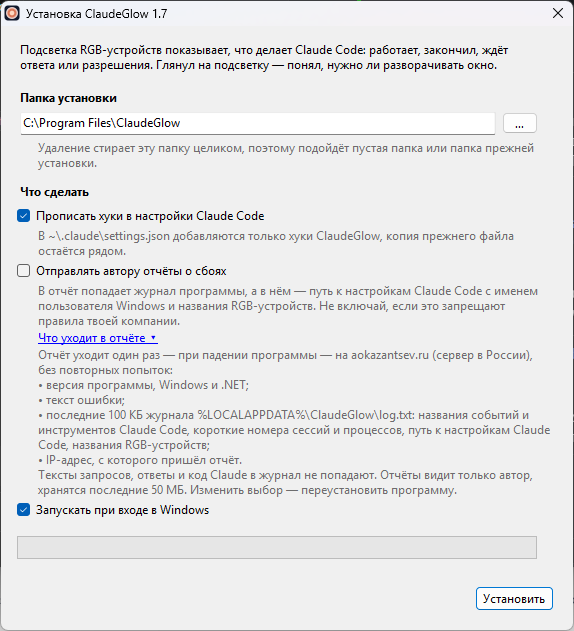
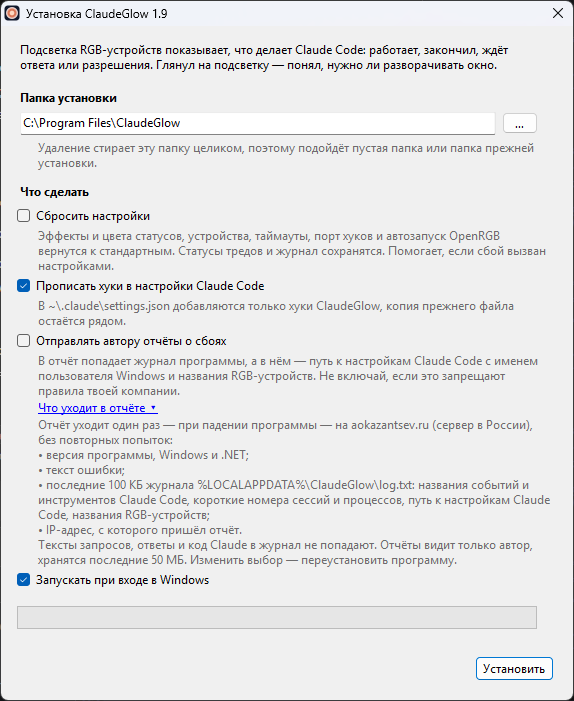
Проверка обновлений из трея с загрузкой установщика, галочка «Сбросить настройки» в установщике, версия 1.9

diff --git a/src/UpdateForm.cs b/src/UpdateForm.cs
@@ -1,0 +1,143 @@
+using System;
+using System.Diagnostics;
+using System.Drawing;
+using System.Threading;
+using System.Windows.Forms;
+
+namespace ClaudeGlow
+{
+    internal sealed class UpdateForm : Form
+    {
+        private const int ContentWidth = 420;
+
+        private static UpdateForm openForm;
+
+        private readonly Label status = new Label();
+        private readonly TextBox pathBox = new TextBox();
+        private readonly FlowLayoutPanel fileButtons = new FlowLayoutPanel();
+        private string downloadedPath;
+
+        public static void ShowSingle()
+        {
+            if (openForm != null)
+            {
+                openForm.Activate();
+                return;
+            }
+            openForm = new UpdateForm();
+            openForm.FormClosed += (sender, e) => openForm = null;
+            openForm.Show();
+            openForm.Start();
+        }
+
+        private UpdateForm()
+        {
+            Text = "Обновление " + AppIdentity.Name;
+            FormBorderStyle = FormBorderStyle.FixedDialog;
+            MaximizeBox = false;
+            MinimizeBox = false;
+            StartPosition = FormStartPosition.CenterScreen;
+            AutoScaleMode = AutoScaleMode.Dpi;
+            Font = SystemFonts.MessageBoxFont;
+            AutoSize = true;
+            AutoSizeMode = AutoSizeMode.GrowAndShrink;
+            Icon = Icon.ExtractAssociatedIcon(Application.ExecutablePath);
+
+            var layout = new TableLayoutPanel { AutoSize = true, ColumnCount = 1, Padding = new Padding(16) };
+            Controls.Add(layout);
+
+            status.AutoSize = true;
+            status.MaximumSize = new Size(ContentWidth, 0);
+            status.Text = "Проверяю, есть ли версия новее " + AppIdentity.Version + "…";
+            layout.Controls.Add(status);
+
+            pathBox.ReadOnly = true;
+            pathBox.Width = ContentWidth;
+            pathBox.Margin = new Padding(3, 10, 3, 3);
+            pathBox.Visible = false;
+            layout.Controls.Add(pathBox);
+
+            fileButtons.AutoSize = true;
+            fileButtons.Visible = false;
+            fileButtons.Margin = new Padding(0, 6, 0, 0);
+            var openFolder = new Button { Text = "Открыть папку", AutoSize = true };
+            openFolder.Click += (sender, e) => ShowInExplorer(downloadedPath);
+            var copyPath = new Button { Text = "Скопировать путь", AutoSize = true };
+            copyPath.Click += (sender, e) => Clipboard.SetText(downloadedPath);
+            fileButtons.Controls.Add(openFolder);
+            fileButtons.Controls.Add(copyPath);
+            layout.Controls.Add(fileButtons);
+
+            var close = new Button { Text = "Закрыть", AutoSize = true, Anchor = AnchorStyles.Right, Margin = new Padding(3, 12, 3, 0) };
+            close.Click += (sender, e) => Close();
+            layout.Controls.Add(close);
+            CancelButton = close;
+        }
+
+        private void Start()
+        {
+            var worker = new Thread(Check) { IsBackground = true };
+            worker.Start();
+        }
+
+        private void Check()
+        {
+            try
+            {
+                UpdateRelease release = UpdateChecker.FetchLatest();
+                Version current = UpdateChecker.CurrentVersion;
+                AppLog.Append("update check: installed " + AppIdentity.Version + ", latest " + release.VersionText);
+                if (release.Version <= current)
+                {
+                    Report("Установлена последняя версия — " + AppIdentity.Version + ".", null);
+                    return;
+                }
+                Report("Есть версия " + release.VersionText + ", скачиваю установщик (" + (release.Size / 1024 / 1024.0).ToString("0.0") + " МБ)…", null);
+                string path = UpdateChecker.Download(release);
+                AppLog.Append("update downloaded: " + path);
+                Report("Скачана версия " + release.VersionText + ". Запусти установщик — он поставит её поверх текущей, настройки сохранятся. "
+                    + "Папка с установщиком открыта в Проводнике; если окно не появилось — кнопка «Открыть папку».", path);
+            }
+            catch (Exception error)
+            {
+                AppLog.Append("update check failed: " + error);
+                Report("Не удалось проверить обновление: " + error.Message
+                    + Environment.NewLine + "Последняя версия всегда есть на " + AppIdentity.GitHubUrl + "/releases/latest", null);
+            }
+        }
+
+        private void Report(string text, string path)
+        {
+            try
+            {
+                BeginInvoke(new Action(() => ShowResult(text, path)));
+            }
+            catch (InvalidOperationException)
+            {
+            }
+        }
+
+        private void ShowResult(string text, string path)
+        {
+            status.Text = text;
+            if (path == null) return;
+            downloadedPath = path;
+            pathBox.Text = path;
+            pathBox.Visible = true;
+            fileButtons.Visible = true;
+            ShowInExplorer(path);
+        }
+
+        private static void ShowInExplorer(string path)
+        {
+            try
+            {
+                Process.Start(new ProcessStartInfo("explorer.exe", "/select,\"" + path + "\"") { UseShellExecute = false });
+            }
+            catch (System.ComponentModel.Win32Exception error)
+            {
+                AppLog.Append("explorer failed: " + error.Message);
+            }
+        }
+    }
+}

diff --git a/src/UpdateChecker.cs b/src/UpdateChecker.cs
@@ -1,0 +1,106 @@
+using System;
+using System.Globalization;
+using System.IO;
+using System.Net;
+using System.Runtime.InteropServices;
+using System.Text;
+using System.Text.RegularExpressions;
+
+namespace ClaudeGlow
+{
+    internal static class UpdateChecker
+    {
+        private const string GitHubPrefix = "https://github.com/";
+        private const string ApiPrefix = "https://api.github.com/repos/";
+        private const int RequestTimeoutMs = 15 * 1000;
+        private const int DownloadTimeoutMs = 120 * 1000;
+        private const int BufferSize = 81920;
+        private static readonly Guid DownloadsFolderId = new Guid("374DE290-123F-4565-9164-39C4925E467B");
+
+        public static Version CurrentVersion
+        {
+            get { return ParseVersion(AppIdentity.Version); }
+        }
+
+        public static Version ParseVersion(string text)
+        {
+            var parsed = new Version(text.Trim().TrimStart('v', 'V'));
+            return new Version(parsed.Major, parsed.Minor, Math.Max(0, parsed.Build), Math.Max(0, parsed.Revision));
+        }
+
+        public static UpdateRelease FetchLatest()
+        {
+            ServicePointManager.SecurityProtocol |= SecurityProtocolType.Tls12;
+            string url = ApiPrefix + AppIdentity.GitHubUrl.Substring(GitHubPrefix.Length) + "/releases/latest";
+            HttpWebRequest request = CreateRequest(url, RequestTimeoutMs);
+            request.Accept = "application/vnd.github+json";
+            string json;
+            using (var response = (HttpWebResponse)request.GetResponse())
+            using (var reader = new StreamReader(response.GetResponseStream(), Encoding.UTF8))
+            {
+                json = reader.ReadToEnd();
+            }
+            Match tag = Regex.Match(json, "\"tag_name\"\\s*:\\s*\"(v?[0-9][0-9.]*)\"");
+            if (!tag.Success) throw new InvalidDataException("в ответе GitHub нет номера версии");
+            string assetName = AppIdentity.Name + "Setup.exe";
+            Match asset = Regex.Match(json, "\"size\"\\s*:\\s*([0-9]+)[^{}]*?\"browser_download_url\"\\s*:\\s*\"([^\"]*/" + Regex.Escape(assetName) + ")\"");
+            if (!asset.Success) throw new InvalidDataException("в последнем релизе нет файла " + assetName);
+            return new UpdateRelease(tag.Groups[1].Value.TrimStart('v', 'V'), asset.Groups[2].Value,
+                long.Parse(asset.Groups[1].Value, CultureInfo.InvariantCulture));
+        }
+
+        public static string Download(UpdateRelease release)
+        {
+            string folder = DownloadsDirectory();
+            Directory.CreateDirectory(folder);
+            string target = Path.Combine(folder, AppIdentity.Name + "Setup-" + release.VersionText + ".exe");
+            string partial = target + ".part";
+            HttpWebRequest request = CreateRequest(release.DownloadUrl, DownloadTimeoutMs);
+            using (var response = (HttpWebResponse)request.GetResponse())
+            using (Stream source = response.GetResponseStream())
+            using (var output = new FileStream(partial, FileMode.Create, FileAccess.Write))
+            {
+                source.CopyTo(output, BufferSize);
+            }
+            if (release.Size > 0 && new FileInfo(partial).Length != release.Size)
+            {
+                File.Delete(partial);
+                throw new IOException("файл скачался не полностью");
+            }
+            if (File.Exists(target)) File.Delete(target);
+            File.Move(partial, target);
+            return target;
+        }
+
+        private static HttpWebRequest CreateRequest(string url, int timeoutMs)
+        {
+            ServicePointManager.SecurityProtocol |= SecurityProtocolType.Tls12;
+            var request = (HttpWebRequest)WebRequest.Create(url);
+            request.UserAgent = AppIdentity.Name + "/" + AppIdentity.Version;
+            request.Timeout = timeoutMs;
+            request.ReadWriteTimeout = timeoutMs;
+            return request;
+        }
+
+        private static string DownloadsDirectory()
+        {
+            Guid folderId = DownloadsFolderId;
+            IntPtr pathPointer;
+            if (SHGetKnownFolderPath(ref folderId, 0, IntPtr.Zero, out pathPointer) == 0)
+            {
+                try
+                {
+                    return Marshal.PtrToStringUni(pathPointer);
+                }
+                finally
+                {
+                    Marshal.FreeCoTaskMem(pathPointer);
+                }
+            }
+            return Path.Combine(Environment.GetFolderPath(Environment.SpecialFolder.UserProfile), "Downloads");
+        }
+
+        [DllImport("shell32.dll")]
+        private static extern int SHGetKnownFolderPath(ref Guid folderId, uint flags, IntPtr token, out IntPtr path);
+    }
+}

diff --git a/installer/setup/SetupProfile.cs b/installer/setup/SetupProfile.cs
@@ -28,10 +28,20 @@ namespace ClaudeGlow
             return new List<SetupField>();
         }
 
+        private const string ResetSettingsKey = "resetSettings";
+
         public static List<SetupOption> Options()
         {
             return new List<SetupOption>
             {
+                new SetupOption
+                {
+                    Key = ResetSettingsKey,
+                    Text = "Сбросить настройки",
+                    Hint = "Эффекты и цвета статусов, устройства, таймауты, порт хуков и автозапуск OpenRGB вернутся к стандартным. "
+                        + "Статусы тредов и журнал сохранятся. Помогает, если сбой вызван настройками.",
+                    Checked = false
+                },
                 new SetupOption
                 {
                     Key = HooksKey,
@@ -62,6 +72,12 @@ namespace ClaudeGlow
 
         public static void BeforeExtract(InstallRequest request, Action<int, string> report, List<string> notes)
         {
+            if (request.Has(ResetSettingsKey))
+            {
+                string settingsPath = Path.Combine(AppIdentity.DataDirectory, "settings.txt");
+                if (File.Exists(settingsPath)) File.Delete(settingsPath);
+                SetupLog.Append("settings reset");
+            }
             CrashReportConsent.Set(request.Has(CrashReportConsent.OptionKey));
             SetupLog.Append("crash reports: " + request.Has(CrashReportConsent.OptionKey));
         }

diff --git a/src/TrayApplication.cs b/src/TrayApplication.cs
@@ -325,6 +325,7 @@ namespace ClaudeGlow
             var startupItem = new ToolStripMenuItem("Запускать при входе в Windows", null, OnStartupClick);
             startupItem.Checked = Autostart.IsEnabled();
             menu.Items.Add(startupItem);
+            menu.Items.Add(new ToolStripMenuItem("Проверить обновление…", null, (s, a) => UpdateForm.ShowSingle()));
             menu.Items.Add(new ToolStripMenuItem("О приложении…", null, (s, a) => AboutForm.ShowSingle()));
             menu.Items.Add(new ToolStripSeparator());
             menu.Items.Add(new ToolStripMenuItem("Выход", null, OnExitClick));

diff --git a/src/UpdateRelease.cs b/src/UpdateRelease.cs
@@ -1,0 +1,20 @@
+using System;
+
+namespace ClaudeGlow
+{
+    internal sealed class UpdateRelease
+    {
+        public readonly Version Version;
+        public readonly string VersionText;
+        public readonly string DownloadUrl;
+        public readonly long Size;
+
+        public UpdateRelease(string versionText, string downloadUrl, long size)
+        {
+            VersionText = versionText;
+            Version = UpdateChecker.ParseVersion(versionText);
+            DownloadUrl = downloadUrl;
+            Size = size;
+        }
+    }
+}

diff --git a/installer/setup/AssemblyInfo.cs b/installer/setup/AssemblyInfo.cs
@@ -6,7 +6,7 @@ using System.Runtime.InteropServices;
 [assembly: AssemblyCompany("aokazantsev")]
 [assembly: AssemblyProduct("ClaudeGlow")]
 [assembly: AssemblyCopyright("Copyright (c) 2026 aokazantsev. MIT License")]
-[assembly: AssemblyVersion("1.8.0.0")]
-[assembly: AssemblyFileVersion("1.8.0.0")]
-[assembly: AssemblyInformationalVersion("1.8")]
+[assembly: AssemblyVersion("1.9.0.0")]
+[assembly: AssemblyFileVersion("1.9.0.0")]
+[assembly: AssemblyInformationalVersion("1.9")]
 [assembly: ComVisible(false)]

diff --git a/installer/uninstall/AssemblyInfo.cs b/installer/uninstall/AssemblyInfo.cs
@@ -6,7 +6,7 @@ using System.Runtime.InteropServices;
 [assembly: AssemblyCompany("aokazantsev")]
 [assembly: AssemblyProduct("ClaudeGlow")]
 [assembly: AssemblyCopyright("Copyright (c) 2026 aokazantsev. MIT License")]
-[assembly: AssemblyVersion("1.8.0.0")]
-[assembly: AssemblyFileVersion("1.8.0.0")]
-[assembly: AssemblyInformationalVersion("1.8")]
+[assembly: AssemblyVersion("1.9.0.0")]
+[assembly: AssemblyFileVersion("1.9.0.0")]
+[assembly: AssemblyInformationalVersion("1.9")]
 [assembly: ComVisible(false)]

diff --git a/src/AssemblyInfo.cs b/src/AssemblyInfo.cs
@@ -6,7 +6,7 @@ using System.Runtime.InteropServices;
 [assembly: AssemblyCompany("aokazantsev")]
 [assembly: AssemblyProduct("ClaudeGlow")]
 [assembly: AssemblyCopyright("Copyright (c) 2026 aokazantsev. MIT License")]
-[assembly: AssemblyVersion("1.8.0.0")]
-[assembly: AssemblyFileVersion("1.8.0.0")]
-[assembly: AssemblyInformationalVersion("1.8")]
+[assembly: AssemblyVersion("1.9.0.0")]
+[assembly: AssemblyFileVersion("1.9.0.0")]
+[assembly: AssemblyInformationalVersion("1.9")]
 [assembly: ComVisible(false)]

diff --git a/src/AppIdentity.cs b/src/AppIdentity.cs
@@ -6,7 +6,7 @@ namespace ClaudeGlow
     internal static class AppIdentity
     {
         public const string Name = "ClaudeGlow";
-        public const string Version = "1.8";
+        public const string Version = "1.9";
         public const string ExecutableName = "ClaudeGlow.exe";
         public const string ProcessName = "ClaudeGlow";
         public const string UninstallerName = "Uninstall.exe";

diff --git a/README.md b/README.md
@@ -45,6 +45,13 @@
 - **Как изменить выбор.** Переустановить программу с галочкой или без неё. Деинсталлятор удаляет
   согласие вместе с остальными данными.
 
+## Обновление
+
+Трей → «Проверить обновление…». Есть версия новее — установщик скачивается в «Загрузки» и
+открывается в Проводнике; путь к нему и кнопка «Открыть папку» остаются в окне. Запусти его — новая
+версия встанет поверх текущей, удалять старую не нужно, настройки сохранятся. Если сбой вызван
+настройками, в установщике есть галочка «Сбросить настройки».
+
 ## Удаление
 
 «Параметры → Приложения → ClaudeGlow → Удалить» или `Uninstall.exe` в папке программы. Программа

diff --git a/CHANGELOG.md b/CHANGELOG.md
@@ -2,6 +2,14 @@
 
 Актуальная версия — в [Releases](../../releases/latest).
 
+## 1.9 — 06.10.2026
+
+- В меню трея пункт «Проверить обновление…»: программа сверяется с последним релизом на GitHub и, если
+  есть версия новее, скачивает установщик в «Загрузки» и открывает его в Проводнике. Окно с путём и
+  кнопкой «Открыть папку» остаётся, если Проводник не появился. Установщик ставит новую версию поверх
+  текущей, настройки сохраняются.
+- В установщике галочка «Сбросить настройки» (по умолчанию выключена) — если сбой вызван настройками.
+
 ## 1.8 — 06.10.2026
 
 - Журнал пишет запуск: версию, настройки, порт приёма событий, подключены ли хуки Claude Code,
